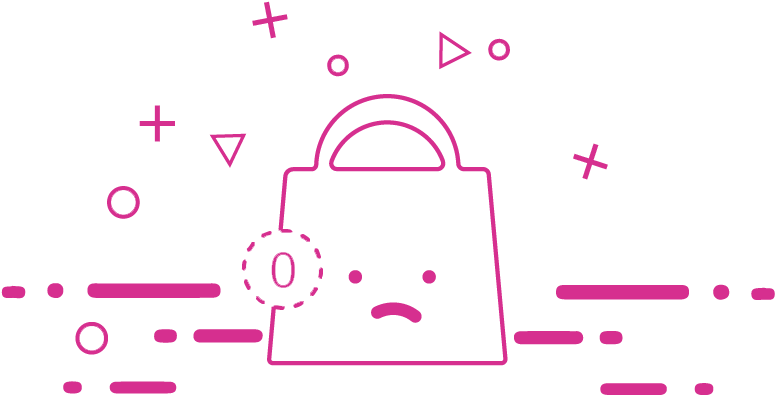
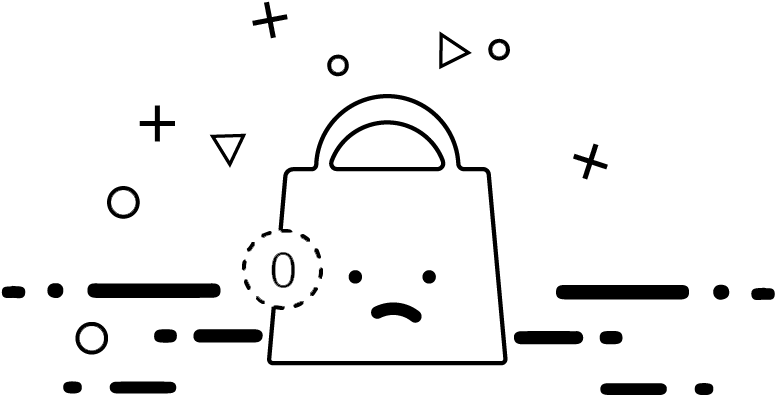
Vista de carrito vacío

diff --git a/src/components/Cart/Cart.css b/src/components/Cart/Cart.css
@@ -176,10 +176,27 @@
 }
 
 .empty-cart {
+  width: 100dvw;
+  height: 100dvh;
   display: flex;
   flex-direction: column;
   align-items: center;
-  margin-top: 3rem;
+  justify-content: center;
+  background-image:
+    linear-gradient(
+      0deg,
+      rgb(104, 70, 51, 0.93) 15%,
+      rgba(254, 223, 191, 0.93) 100%
+    ),
+    url("../../assets/bgEmpty.jpg");
+  background-size: cover;
+  background-position: center;
+
+  .logo-ngo {
+    width: 25%;
+    margin-top: -5rem;
+    margin-bottom: 5rem;
+  }
 
   img {
     width: 90%;
@@ -188,14 +205,14 @@
   h2 {
     font-size: 1.7rem;
     margin-top: 3rem;
-    color: var(--accent);
+    color: var(--bg);
   }
 
   .btn-empty {
     width: fit-content;
     padding: 10px 50px;
-    color: var(--light);
-    background-color: var(--accent);
+    color: var(--bg);
+    background-color: var(--bg-dark);
     font-size: 1.5rem;
     cursor: pointer;
     margin-top: 3rem;
@@ -203,8 +220,8 @@
     border-radius: 7px;
 
     &:visited {
-      background-color: var(--accent);
-      color: var(--light);
+      background-color: var(--bg-dark);
+      color: var(--bg);
     }
   }
 }

diff --git a/src/pages/Catalog/Catalog.jsx b/src/pages/Catalog/Catalog.jsx
@@ -1,4 +1,4 @@
-import { NavLink, useLocation } from "react-router-dom";
+import { NavLink } from "react-router-dom";
 import { useCartStore } from "../../store/cartStore.js";
 import CartIcon from "../../components/CardIcon/CardIcon";
 import products from "../../data/products.json";
@@ -7,9 +7,6 @@ import { FaHouse, FaCartShopping } from "react-icons/fa6";
 import "./Catalog.css";
 
 function Catalog() {
-  const location = useLocation();
-  console.log(location.pathname);
-
   const items = useCartStore((state) => state.items);
   return (
     <section className="cat-container">

diff --git a/src/components/Cart/Cart.jsx b/src/components/Cart/Cart.jsx
@@ -2,6 +2,7 @@ import { FaWhatsapp, FaRegTrashAlt } from "react-icons/fa";
 import { NavLink, useNavigate } from "react-router-dom";
 import { useCartStore } from "../../store/cartStore";
 import empty from "../../assets/empty.png";
+import logoNgo from "../../assets/logoNgo.png";
 import "./Cart.css";
 
 function Cart() {
@@ -43,6 +44,7 @@ function Cart() {
   if (items.length === 0) {
     return (
       <div className="empty-cart">
+        <img src={logoNgo} alt="logo negro" className="logo-ngo" />
         <img src={empty} alt="Carrito vacío" />
         <h2>Tu carrito está vacío</h2>
         <NavLink to="/catalog" className="btn-empty">